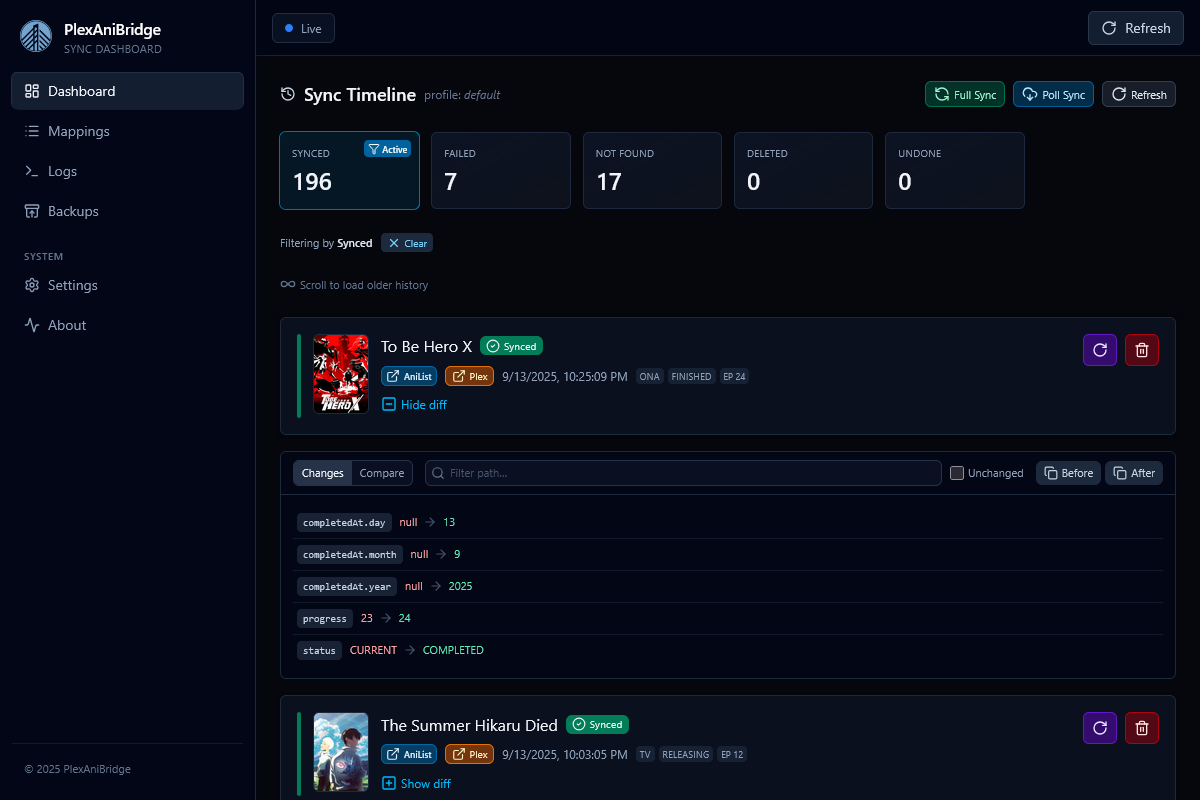
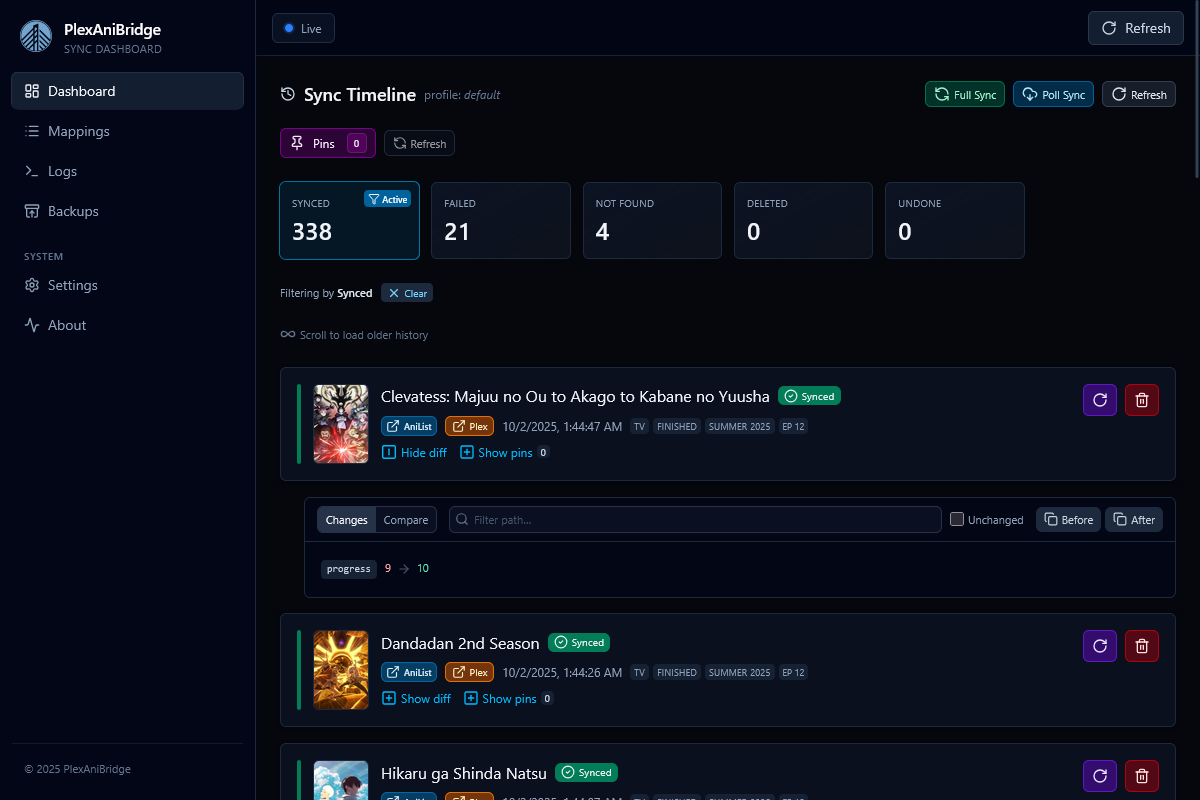
Web UI docs (#180)
* docs: Update screenshots for v1.6.0

* docs: Web UI documentation for all of the major pages

* feat: Custom sidebar docs ordering

* feat: Share project version with OpenAPI schema

* refactor: Don't use broad OpenAPI tags

* docs: API documentation

diff --git a/src/web/app.py b/src/web/app.py
@@ -15,7 +15,7 @@ from fastapi.staticfiles import StaticFiles
 from starlette.exceptions import HTTPException as StarletteHTTPException
 from starlette.middleware.base import BaseHTTPMiddleware
 
-from src import log
+from src import __version__, log
 from src.core.sched import SchedulerClient
 from src.exceptions import PlexAniBridgeError
 from src.web.routes import router
@@ -132,7 +132,7 @@ def create_app(scheduler: SchedulerClient | None = None) -> FastAPI:
     Returns:
         FastAPI: The created FastAPI application.
     """
-    app = FastAPI(title="PlexAniBridge", lifespan=lifespan)
+    app = FastAPI(title="PlexAniBridge", lifespan=lifespan, version=__version__)
 
     if scheduler:
         app.extra["scheduler"] = scheduler

diff --git a/src/web/routes/__init__.py b/src/web/routes/__init__.py
@@ -10,6 +10,6 @@ __all__ = ["router"]
 
 router = APIRouter()
 
-router.include_router(api_router, prefix="/api", tags=["api"])
-router.include_router(webhook_router, prefix="/webhook", tags=["webhook"])
-router.include_router(ws_router, prefix="/ws", tags=["ws"])
+router.include_router(api_router, prefix="/api", tags=[])
+router.include_router(webhook_router, prefix="/webhook", tags=[])
+router.include_router(ws_router, prefix="/ws", tags=[])

diff --git a/docs/web/timeline.md b/docs/web/timeline.md
@@ -1,0 +1,45 @@
+---
+title: Timeline
+icon: material/timeline-clock
+---
+
+# Sync Timeline
+
+![Timeline view](../img/screenshots/timeline.png)
+
+The sync timeline gives you a live feed of Plex to AniList activity for a specific profile. It combines current sync progress, websocket updates, and stored history so you can see exactly what changed, when, and why.
+
+## Header Controls
+
+- `Full Sync` runs a complete rescan of the selected profile.
+- `Poll Sync` asks the backend to poll Plex for new or recently changed items without resetting library state.
+- When a sync is running the header shows stage, library section, processed counts, and a progress meter.
+
+## Outcome Filters & Stats
+
+- The filter cards summarise counts for `Synced`, `Failed`, `Not Found`, `Deleted`, and `Undone` outcomes.
+- Click a card to filter by that outcome; click the `Clear` badge to remove the filter.
+- Counts update as history entries stream in, so you can watch failures or retries in real time.
+
+## History Feed
+
+- New entries arrive via the `/ws/history/{profile}` websocket and appear at the top of the feed.
+- Infinite scrolling loads older history as you reach the sentinel at the bottom.
+- Each card displays AniList and Plex links (when available), library metadata, timestamp, and any backend error message.
+
+## Entry Actions
+
+- `Retry` re-queues a failed or not found item.
+- `Undo` reverses successful syncs by returning the AniList entry to its prior state.
+- `Delete` removes the history entry from the database (purely cosmetic; does not affect AniList data).
+
+## Diff Viewer
+
+- The diff viewer highlights changes between the `before` and `after` AniList states.
+- The default `Changes` tab shows only modified fields with color-coded additions and deletions.
+- Use the search box to filter by JSON path, show unchanged values, or switch to the side-by-side `Compare` tab for a holistic view.
+
+## Pinning Controls
+
+- Use `Show pins` on an entry to pick AniList fields that must stay untouched for that title.
+- The global `Pins` button opens the pins manager, letting you search AniList titles, review every pinned record, and edit multiple entries without leaving the timeline.

diff --git a/docs/web/mappings.md b/docs/web/mappings.md
@@ -1,0 +1,30 @@
+---
+title: Mappings
+icon: material/table-large
+---
+
+# Mappings Explorer
+
+![Mappings view](../img/screenshots/mappings.png)
+
+The mappings page lets you browse and manage the AniList ↔ Plex mapping database. You can search existing records with a powerful query language and manage mapping overrides.
+
+## Searching & Filtering
+
+- The search bar uses the [Mappings Query Language](../mappings/mappings-querying-language.md) with autocomplete hints as you type.
+- Some useful queries to try: `"One Piece"`, `anilist:12345`, `tvdb:67890`, `has:tvdb_mappings`.
+- Press `Enter` or click the search icon to run a query.
+- Toggle `Custom Only` to limit results to entries sourced from your [custom mappings](../mappings/custom-mappings.md) (`mappings.custom.(json|yaml|yml)`)
+
+## Table Controls
+
+- Column visibility can be set by clicking the eye icon popover; toggles persist in local storage.
+- Drag column separators to resize widths as needed; column widths persist in local storage.
+- Use `Show All`, `Hide All`, or `(reset)` inside the eye icon popover to restore the default column layout.
+- Pagination controls (page navigation, per page size) sit at the foot of the table.
+
+## Editing & Creating Overrides
+
+- `New Override` (plus icon in toolbar) opens the editor with a blank template; `Edit` in a row pre-fills fields from the current mapping.
+- The override editor has two tabs: Form and Raw JSON; Form mode exposes all supported identifiers with per-field modes (`omit`, `null`, `value`) and helper controls for TMDB/TVDB season mappings.
+- Switch to `Raw JSON` for a schema-backed Monaco editor that validates against the override schema. Changes sync back to the form when you return.

diff --git a/docs/web/logs.md b/docs/web/logs.md
@@ -1,0 +1,26 @@
+---
+title: Logs
+icon: material/file-chart
+---
+
+# Logs Console
+
+![Logs view](../img/screenshots/logs.png)
+
+The logs page has two tabs for real-time streaming output and archived log files. It connects to `/ws/logs` for live events and `/api/logs/*` for history.
+
+## Live Stream
+
+- The `Live` tab subscribes to the websocket and appends new entries as they happen.
+- The toolbar actions let you clear the current buffer, toggle auto-scroll, switch message wrapping, and download the in-memory log slice as a text file.
+
+## Log History
+
+- Switch to the `History` tab to browse archived log files stored on disk.
+- Choose how many trailing lines to load (100–2000 or all).
+- Wrap toggles and downloads are available here too, letting you export just the excerpt you reviewed.
+
+## Search & Filtering
+
+- The global search box filters both live and history buffers across message text with a case-insensitive match.
+- The level selector is ranked (`DEBUG` < `INFO` < `SUCCESS` < `WARNING` < `ERROR`). Selecting a level hides anything less severe so you can focus on warnings or failures.

diff --git a/docs/web/backups.md b/docs/web/backups.md
@@ -1,0 +1,19 @@
+---
+title: Backups
+icon: material/archive-refresh
+---
+
+# AniList Backups
+
+![Backups view](../img/screenshots/backups.png)
+
+Use the backups page to browse, preview, and restore the AniList snapshots PlexAniBridge creates for you. The page has two stops: a profile picker at `/backups` and a detailed table at `/backups/{profile}`. Everything you see reflects the real files stored in `PAB_DATA_PATH/backups`, so you always know what is available.
+
+_Note: backups are automatically deleted after 7 days (rolling retention). If you need to keep a snapshot longer, save it in a safe location._
+
+he profile view lists every backup with its filename, when it was created, how old it is, file size, and which AniList user it belongs to.
+
+Actions on each row:
+
+- `Preview` opens the backup in a modal so you can skim the JSON of your AniList backup before doing anything permanent.
+- `Restore` triggers the restore job, and shows a toast summarising how many entries were brought back plus any warnings.

diff --git a/docs/web/api.md b/docs/web/api.md
@@ -1,0 +1,12 @@
+---
+title: API
+icon: material/api
+---
+
+# API
+
+The API is self documenting via the OpenAPI specification. You can explore endpoints, view schemas, and try out requests directly from either the built-in [Swagger UI](https://swagger.io/tools/swagger-ui/) or [Redoc](https://redocly.github.io/redoc/) interfaces (available at `/docs` and `/redoc` respectively of your PlexAniBridge deployment).
+
+Below is an embedded Redoc viewer for convenience. _Note: the embedded viewer may not always be up to date with the live API; for the most accurate docs, visit `/redoc` directly on your PlexAniBridge instance._
+
+<redoc src="./openapi.json" />
